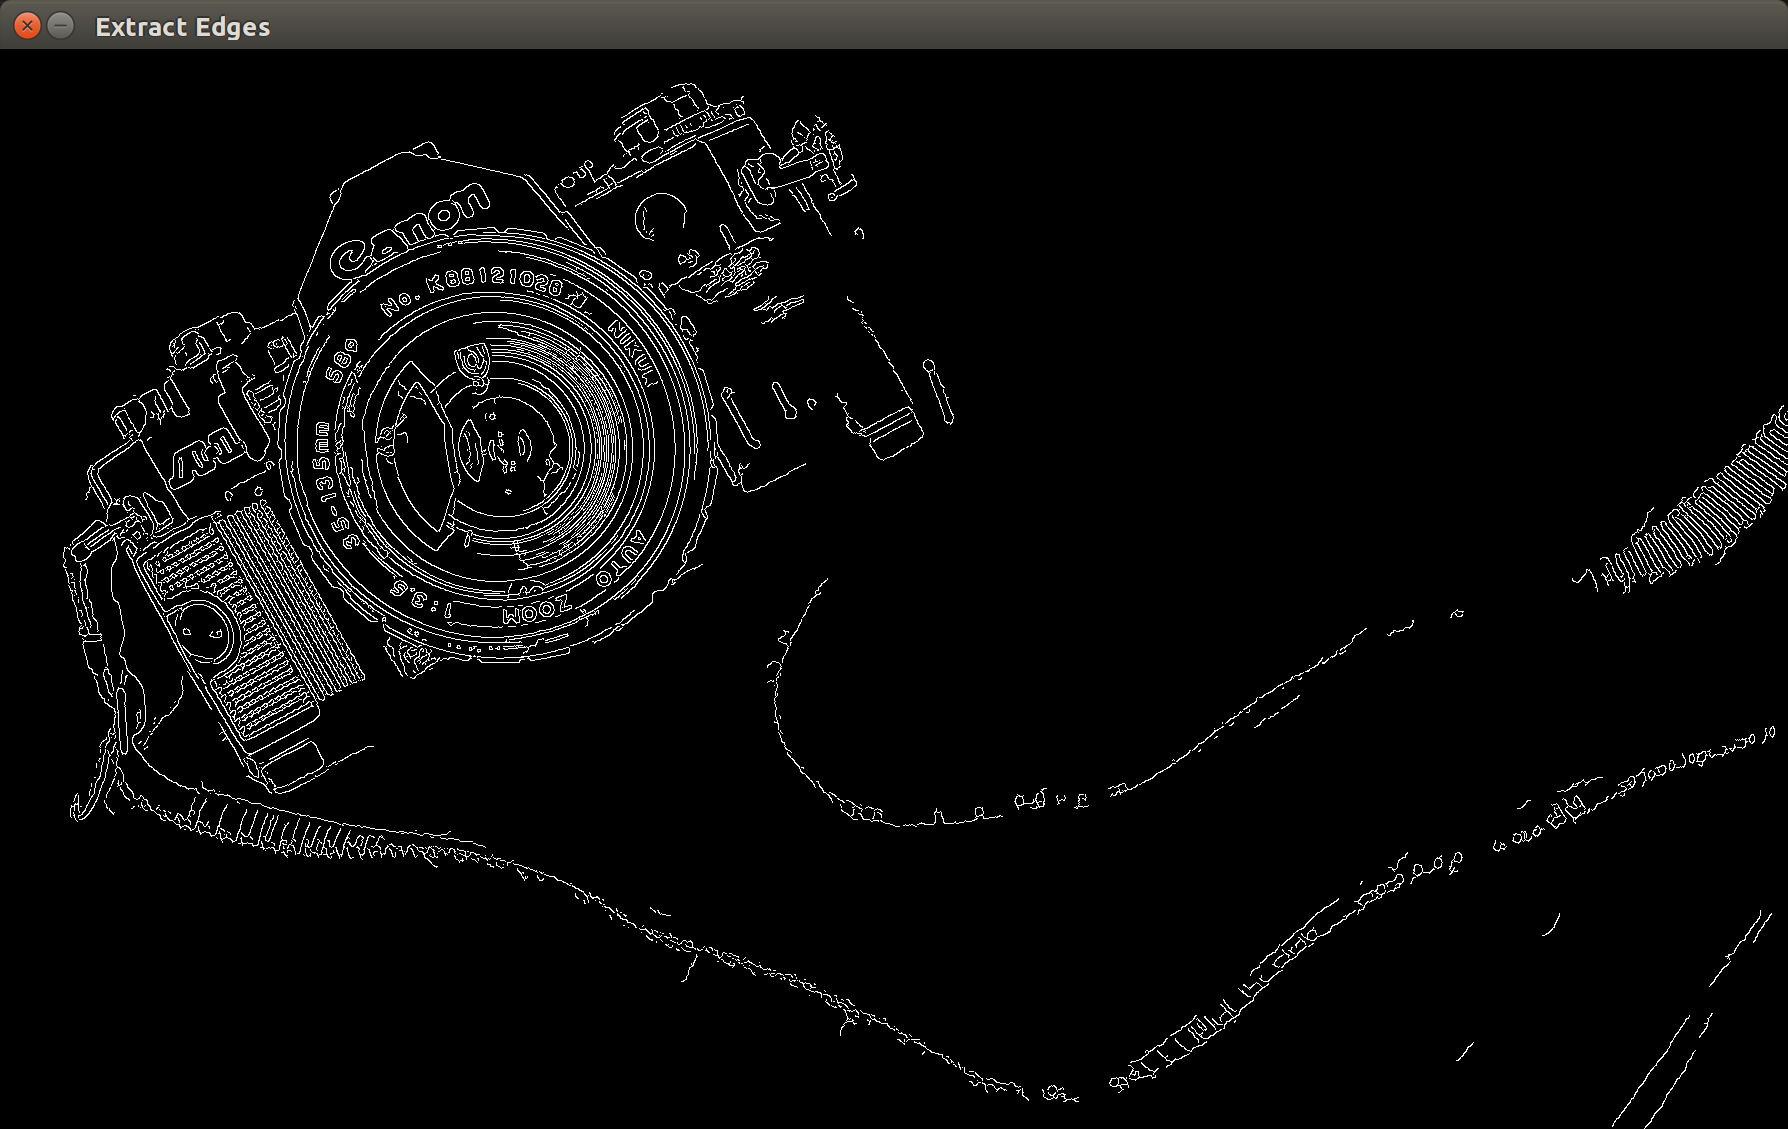
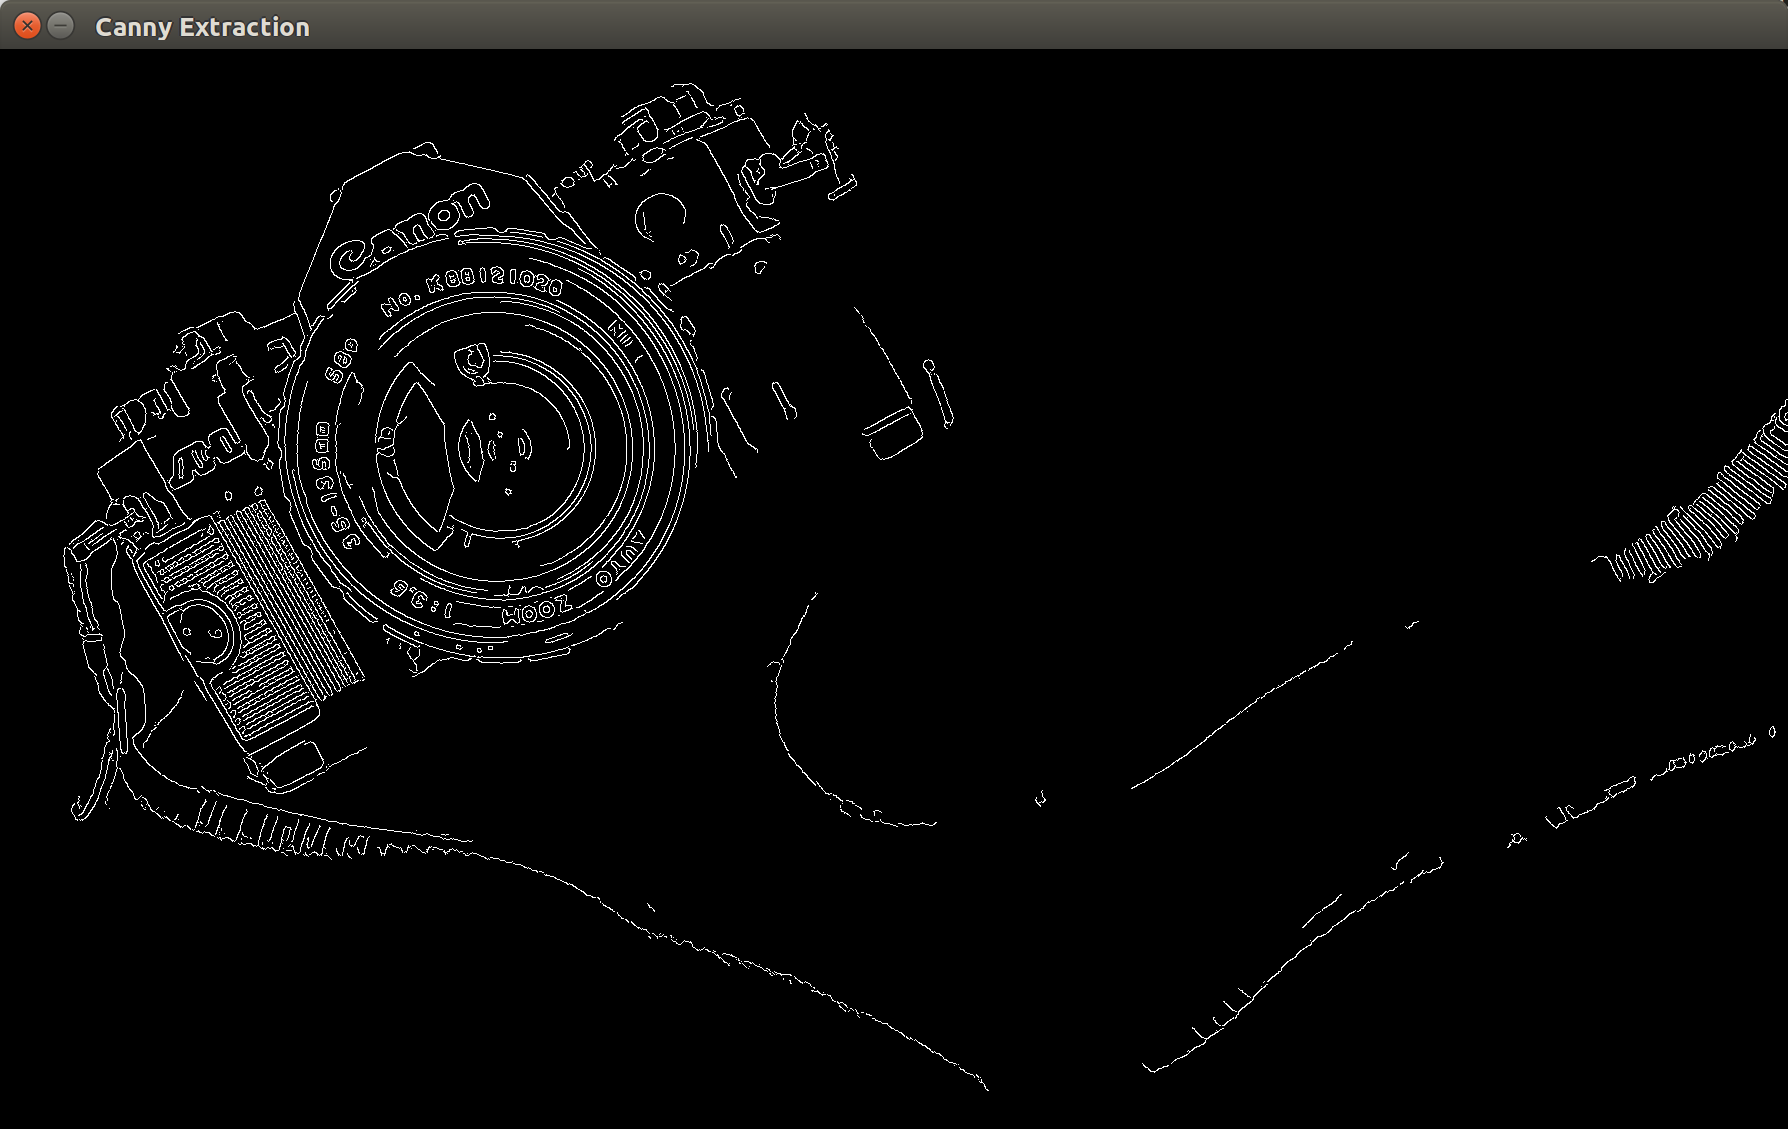
almost done, need to add details for extracting edges

diff --git a/ComputerVision/index.html b/ComputerVision/index.html
@@ -15,7 +15,7 @@
     font-family: 'Source Sans Pro', sans-serif;
   }
 </style>
-<title>CS 184 Ray Tracer, Part 1</title>
+<title>Live Sketch Application</title>
 <meta http-equiv="content-type" content="text/html; charset=utf-8" />
 <link href="https://fonts.googleapis.com/css?family=Open+Sans|Source+Sans+Pro" rel="stylesheet">
 </head>
@@ -99,6 +99,32 @@ If you look at the words around the camera lens, only Gaussian blur seems readab
 <div align="middle">
 </div>  
 <h2> Part III: Extract Edges</h2>
-<h2> Part IV: Invert Binarization of the Image</h2> 
+OpenCV has ___ ways of extracting edges. Notice how the black and white part of the image is reversed, we will have to invert the colors back later in Part IV. 
+
+<div align="middle">
+  <table style="width=100%">
+    <tr>
+        <figure>
+        <img src="images/edge.png" align="middle" width="600px"/>
+        <figcaption align="middle">Canny Extraction</figcaption>
+        </figure>
+    </tr>
+  </table>
+</div>
+
+<h2> Part IV: Invert Binarization of the Image</h2>
+As mentioned in Part III, we need to flip the black and white of the image. 
+
+<div align="middle">
+  <table style="width=100%">
+    <tr>
+        <figure>
+        <img src="images/sketch.png" align="middle" width="600px"/>
+        <figcaption align="middle">Final Sketch</figcaption>
+        </figure>
+    </tr>
+  </table>
+</div>
+
 </body>
 </html>
